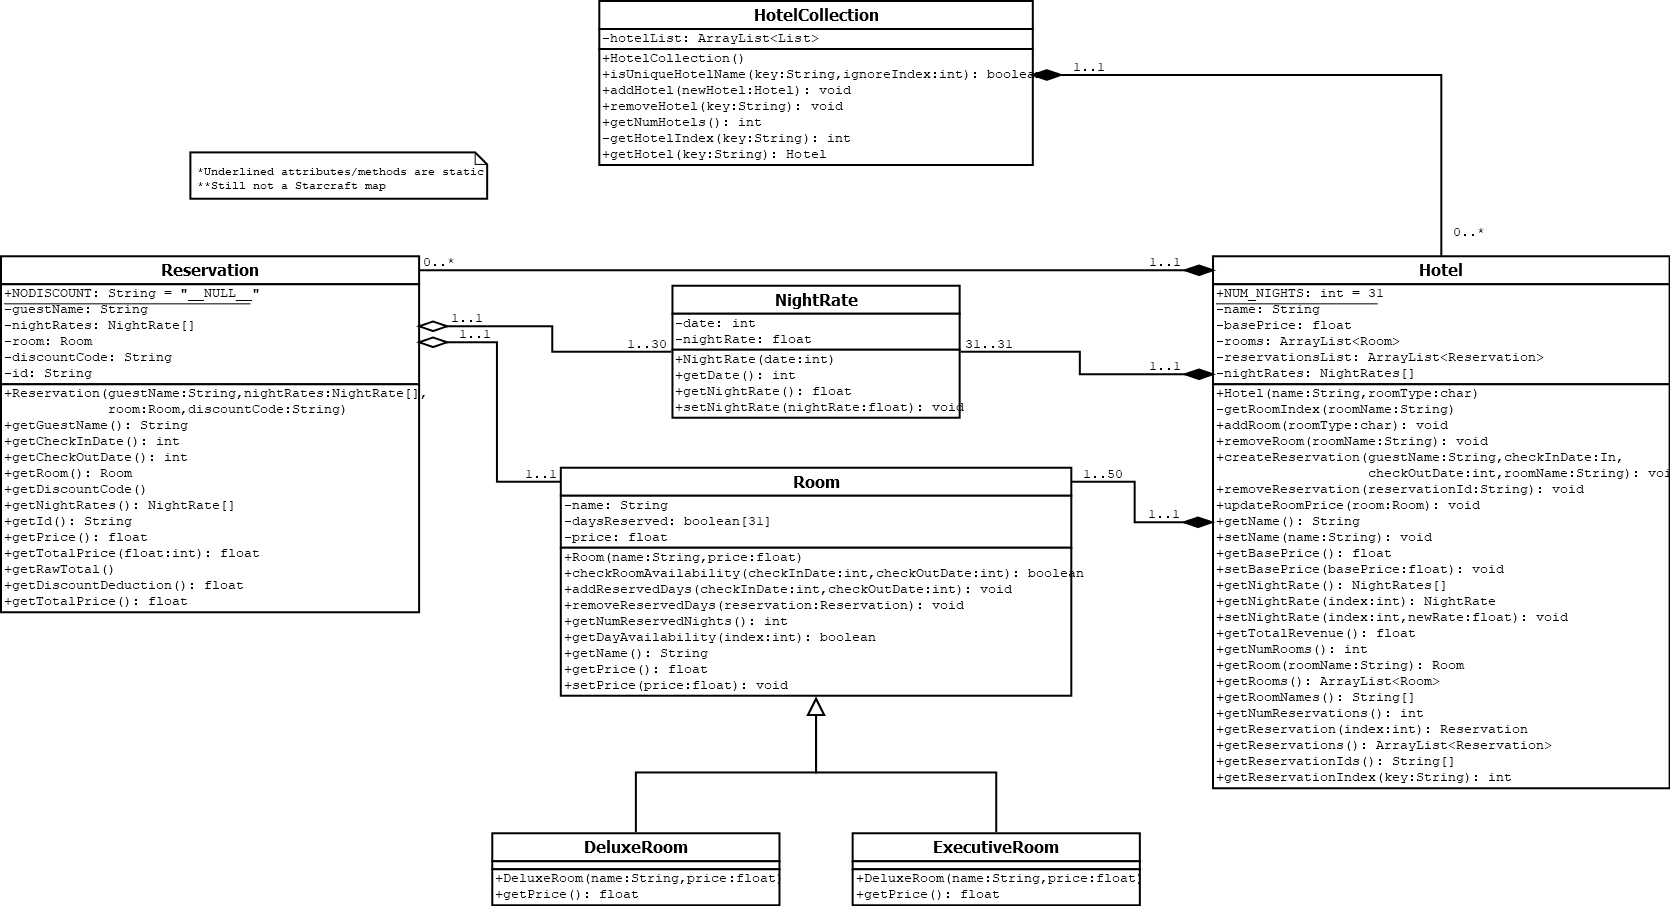
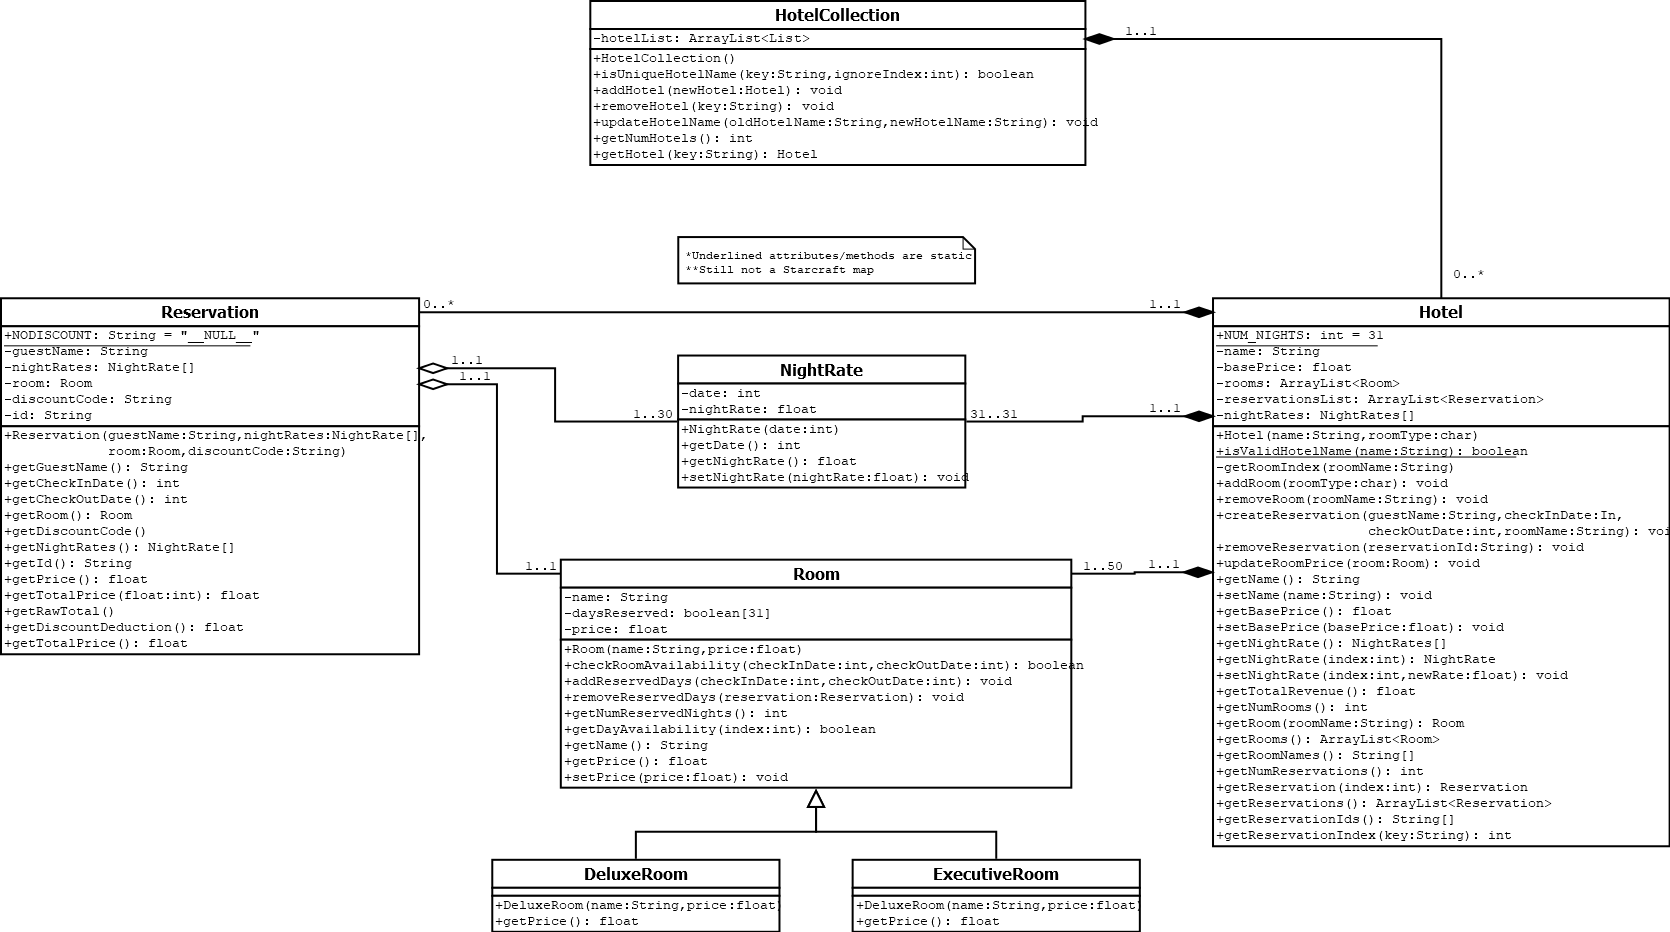
Bug Fixes :D

diff --git a/src/model/HotelCollection.java b/src/model/HotelCollection.java
@@ -10,6 +10,25 @@ public class HotelCollection {
     }
 
     /**
+     * Checks if potential hotel name is unique
+     * 
+     * @param key         hotel name to check from hotelList
+     * @param hotelIgnore hotel to be skipped
+     * @return boolean whether hotel name is unique or not
+     */
+    public boolean isUniqueHotelName(String key, Hotel hotelIgnore) {
+        // Return true if
+        // - no hotel of matching name is found OR
+        // - the supplied hotel is equivalent to the hotelIgnore
+        try {
+            return this.getHotel(key) == null || hotelIgnore.getName().equals(this.getHotel(key).getName());
+        } catch (Exception e) {
+            return false;
+        }
+    }
+
+    /**
+     * Creating new hotel
      * 
      * @param newHotelName  name of new hotel
      * @param firstRoomType character of new room
@@ -26,8 +45,7 @@ public class HotelCollection {
             throw new Exception(newHotelName + " already exists!");
         else {
             this.hotelList.add(candidateHotel);
-            // System.out.printf("%s | Adding Hotel '%s'\n", "HotelCollection",
-            // candidateHotel.getName());
+            System.out.printf("%s | Adding Hotel '%s'\n", "HotelCollection", candidateHotel.getName());
         }
     }
 
@@ -37,11 +55,13 @@ public class HotelCollection {
      * @param key String name of hotel to be deleted
      */
     public void removeHotel(String key) {
-        int deleteIndex = this.getHotelIndex(key);
-        if (deleteIndex > -1) {
-            System.out.printf("%s | Deleting Hotel '%s'\n", "HotelCollection", key);
-            this.hotelList.remove(deleteIndex);
-        }
+        // Find index of room to delete
+        for (int i = 0; i < hotelList.size(); i++)
+            if (key.equals(this.hotelList.get(i).getName())) {
+                System.out.printf("%s | Deleting Hotel '%s'\n", "HotelCollection", key);
+                this.hotelList.remove(i);
+                break;
+            }
     }
 
     /**
@@ -67,45 +87,12 @@ public class HotelCollection {
     }
 
     /**
-     * Checks if potential hotel name is unique
-     * 
-     * @param key         hotel name to check from hotelList
-     * @param hotelIgnore hotel to be skipped
-     * @return boolean whether hotel name is unique or not
-     */
-    public boolean isUniqueHotelName(String key, Hotel hotelIgnore) {
-        // Return true if
-        // - no hotel of matching name is found OR
-        // - the supplied hotel is equivalent to the hotelIgnore
-        try {
-            return this.getHotel(key) == null || hotelIgnore.getName().equals(this.getHotel(key).getName());
-        } catch (Exception e) {
-            return false;
-        }
-    }
-
-    /**
      * Getter for number of hotels in system
      * 
      * @return integer number of hotels in system
      */
     public int getNumHotels() {
         return this.hotelList.size();
-    }
-
-    /**
-     * Hotel Index Getter by hotel name
-     * 
-     * @param key hotel name to be searched
-     * @return integer index of hotel within hotelList, -1 if not found
-     */
-    private int getHotelIndex(String key) {
-
-        for (int i = 0; i < hotelList.size(); i++) {
-            if (key.equals(this.hotelList.get(i).getName()))
-                return i;
-        }
-        return -1;
     }
 
     /**

diff --git a/src/model/Hotel.java b/src/model/Hotel.java
@@ -68,7 +68,7 @@ public class Hotel {
      * @return Returns true if hotel name is valid, i.e. nonempty or null
      */
     public static boolean isValidHotelName(String name) {
-        return !name.isEmpty() && name != null;
+        return name != null && !name.isEmpty();
     }
 
     /*
@@ -214,6 +214,7 @@ public class Hotel {
      * @param checkOutDate date when guest will check-out of the hotel
      * @param roomName     name of the room the guest will be reserved
      *                     assumed to be the string of an integer from 1 - 50
+     * @param discountCode discountCode to be applied, NO
      * @throws Exception if either the room is not found or
      *                   room is occupied in the given date range
      */
@@ -222,7 +223,13 @@ public class Hotel {
         int roomIndex = getRoomIndex(roomName);
         Room localRoom = (roomIndex != -1) ? this.roomsList.get(roomIndex) : null;
 
-        if (localRoom == null)
+        if (discountCode == null || discountCode.isEmpty()) {
+            discountCode = Reservation.NODISCOUNT;
+        }
+
+        if (guestName == null || guestName.isEmpty())
+            throw new Exception("No name entered!");
+        else if (localRoom == null)
             throw new Exception("Room not found!");
         else if (!localRoom.checkRoomAvailability(checkInDate, checkOutDate))
             throw new Exception("Given dates are either invalid or are already booked!");

diff --git a/src/driver/MenuMakeReservation.java b/src/driver/MenuMakeReservation.java
@@ -62,13 +62,14 @@ public class MenuMakeReservation {
         int checkInDate = form.getCheckInDate();
         int checkOutDate = form.getCheckOutDate();
         String discountCode = form.getDiscountCode();
+        // Empty discountCode to be handled in create reservation
 
         try {
             if (guestName == null) {
                 throw new Exception("No name entered!");
             } else {
                 this.hotel.createReservation(guestName, checkInDate, checkOutDate, roomName,
-                        (!discountCode.isEmpty() || discountCode != null)
+                        (discountCode == null || !discountCode.isEmpty())
                                 ? discountCode
                                 : Reservation.NODISCOUNT);
                 Alert.displayAlert("Creating reservation for " + guestName);

diff --git a/src/view/managehotel/ManageRooms.java b/src/view/managehotel/ManageRooms.java
@@ -28,7 +28,7 @@ public class ManageRooms extends JPanel {
     private JComboBox<String> roomSelect;
     private JProgressBar numRooms;
 
-    private JButton roomAdd, roomDelete, roomDeleteAll;
+    private JButton roomAdd, roomDelete;
 
     public ManageRooms(Hotel hotel) {
         super(new BorderLayout());
@@ -41,7 +41,6 @@ public class ManageRooms extends JPanel {
     private void initComponents() {
         this.roomAdd = MyComponents.button("Add Room");
         this.roomDelete = MyComponents.button("Delete Room");
-        this.roomDeleteAll = MyComponents.button("Delete All Rooms");
 
         this.newRoomType = new RoomTypeSelector();
         this.roomSelect = new JComboBox<>(this.hotel.getRoomNames());

diff --git a/src/driver/MenuCreateHotel.java b/src/driver/MenuCreateHotel.java
@@ -50,7 +50,11 @@ public class MenuCreateHotel {
      */
     public void createHotel() {
         try {
-            this.hotels.addHotel(this.gui.getHotelField().toString(), this.gui.getFirstRoomType());
+            String hotelName = this.gui.getHotelField().toString();
+            char roomType = this.gui.getFirstRoomType();
+            this.hotels.addHotel(hotelName, roomType);
+            Alert.displayAlert("Creating " + hotelName);
+            this.gui.dispose();
         } catch (Exception e) {
             Alert.displayAlert(e);
         }

diff --git a/src/model/Reservation.java b/src/model/Reservation.java
@@ -35,7 +35,9 @@ public class Reservation {
         this.guestName = guestName;
         this.nightRates = nightRates;
         this.room = room;
-        this.discountCode = discountCode;
+        this.discountCode = (discountCode != null && !discountCode.isEmpty())
+                ? discountCode
+                : Reservation.NODISCOUNT;
         // assign
         this.id = String.format("%s-%02d%02d", this.room.getName(),
                 this.getCheckInDate(), this.getCheckOutDate());

diff --git a/src/driver/HotelReservationSystem.java b/src/driver/HotelReservationSystem.java
@@ -28,8 +28,8 @@ public class HotelReservationSystem {
 
         // testing here
         try {
-            this.hotelList.addHotel("NewHotel", 'S');
-            this.hotelList.addHotel("HotelGemal", 'D');
+            // this.hotelList.addHotel("NewHotel", 'S');
+            // this.hotelList.addHotel("HotelGemal", 'D');
 
             // Hotel myHotel = this.hotelList.getHotel("NewHotel"),
             //         myHotel2 = this.hotelList.getHotel("HotelGemal");

diff --git a/src/view/makereservation/ReservationForm.java b/src/view/makereservation/ReservationForm.java
@@ -162,8 +162,8 @@ public class ReservationForm extends JDialog {
     }
 
     public String getDiscountCode() {
-        String textValue = this.guestDiscountCode.getText();
-        return (!textValue.equals("")) ? textValue : null;
+        return this.guestDiscountCode.getText();
+        
     }
 
     // object getters
